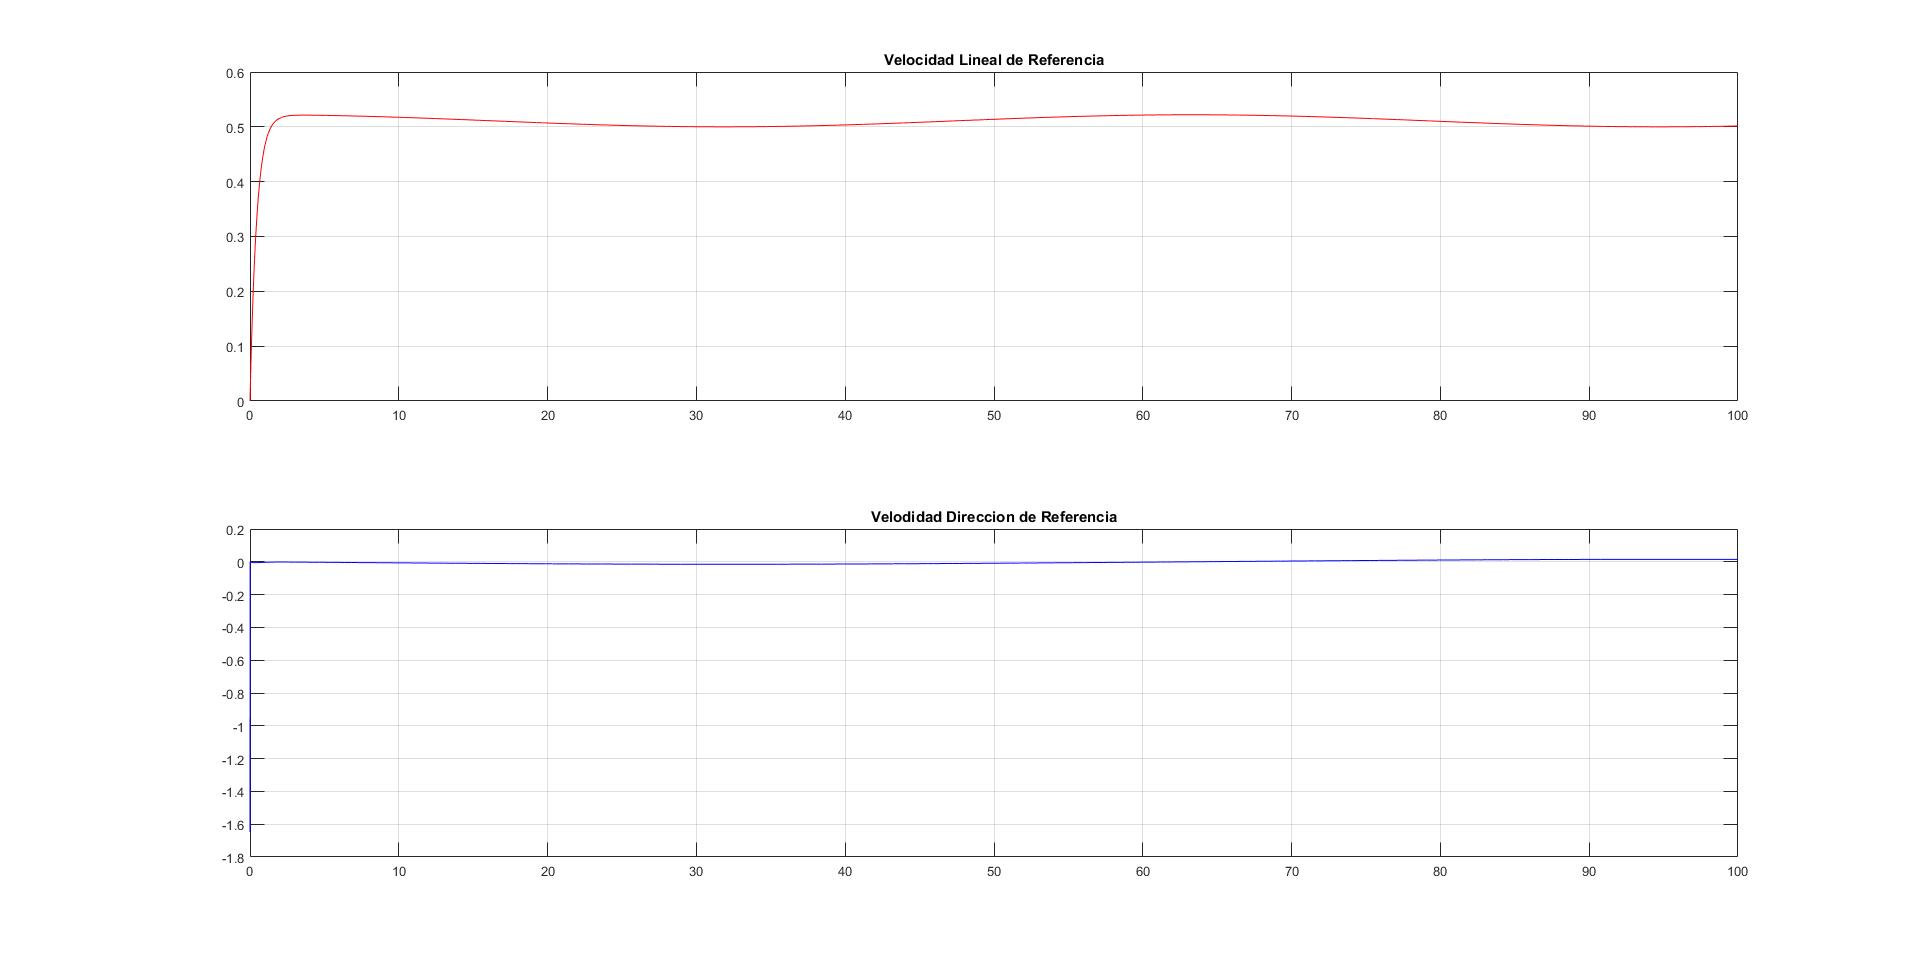
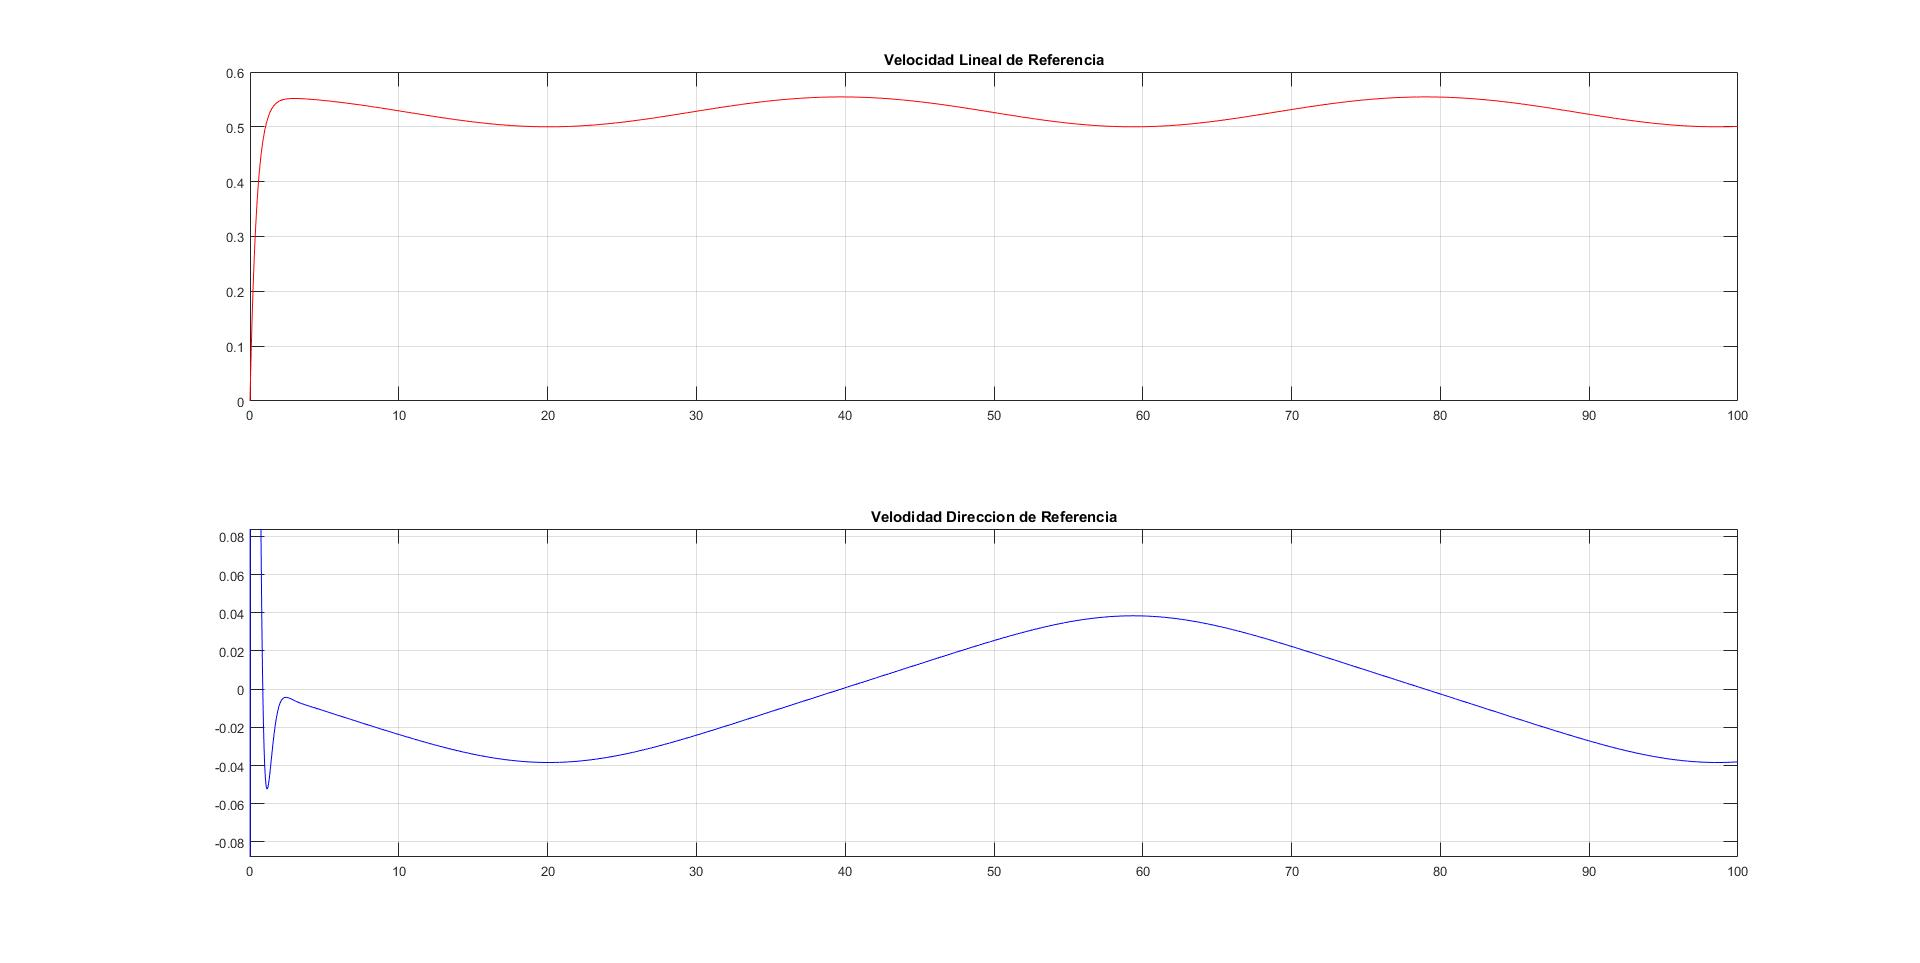
Se añade la redaccion del Pure pursuit

diff --git a/Latex/0main.tex b/Latex/0main.tex
@@ -533,13 +533,8 @@ Será necesario definir el valor de la ganancia de la función de transferencia 
 	\begin{equation}
 	\omega=-K_dd+K_h(\varphi^*-\varphi)
 	\end{equation}
-<<<<<<< HEAD
-	donde $K_d$ es la constante de proporción para el control de la distancia a la que se encuentra el robot de la línea a seguir, $K_h$ la constante de proporción para el control de la orientación respecto a la línea, $\varphi^*$ y $\varphi$ los ángulos de orientación de referencia, calculada como $\varphi^*=atan(\dfrac{-a}{b})$, y actual, y $d$ la distancia del robot a la línea definida como $d=\dfrac{(a,b,c)\cdot(x,y,1)}{\sqrt{a^2+b^2}}$.\\
-	Como se puede apreciar en este tipo de control no se controla la velocidad de desplazamiento pues no es necesario, por lo que se le asigna un valor constante.\\
-=======
 	donde $K_d$ es la constante de proporción para el control de la distancia a la que se encuentra el robot de la línea a seguir, $K_h$ la constante de proporción para el control de la orientación respecto a la línea, $\varphi^*$ y $\varphi$ los ángulos de orientación de referencia, calculada como $\varphi^*=atan(\frac{-a}{b})$, y actual, y $d$ la distancia del robot a la línea definida como $d=\frac{(a,b,c)\cdot(x,y,1)}{\sqrt{a^2+b^2}}$.\\
 	Como se puede apreciar en este tipo de control no se controla la velocidad de desplazamiento pues no es necesario, por lo que se le asigna un valor constante de 0.5 rad/s.\\
->>>>>>> 634c96a79a7cc97acab55c12809de09fbbf42d84
 	
 	Una vez descrito el funcionamiento del control, implementado en una función de MATLAB donde se han puesto la restricciones de que las líneas siempre avanzarán en X positivo y que no podrán ser verticales para facilitarla implementación del mismo.\\
 	Una vez tenidas en cuenta dichas restricciones, se puede pasar a realizar experimentos que determinen la fiabilidad del control:
@@ -573,7 +568,140 @@ Será necesario definir el valor de la ganancia de la función de transferencia 
 	\end{itemize}
 	\subsubsection{Control a una trayectoria}
 	\subsubsection{Control a una postura}
+
+\newpage
+
 \subsection{Ley de control \textit{Persecución pura}}
+Por ultimo, se implementara una ley de control comun en robotica movil, la cual se define como persecucion pura o \textit{Pure Pursuit}. Con esta tecnica se busca un seguimiento de un camino explicito, el cual se encuentra determinado por un generador de trayectorias.\\
+Esta ley de control se ha optado por implementarla, en lugar de buscando la minima distancia entre la recta de la trayectoria y la posicion del robot, realizando un control de postura mezclado con un seguimiento de trayectoria. \\
+Este control de la postura del robot tendra acentuada la ganancia que minimiza el angulo que forma la recta que une la posicion actual del robot con el punto que se obtiene del generador de trayectorias.\\
+En la figura que se muestra a continuacion, la cual contiene la misma notacion que el control a una postura, dicho angulo sera $\alpha$:
+
+\begin{figure}[h!]
+   \centering
+   \includegraphics[width=0.4\textwidth]{postura}
+   \caption{Representacion del angulo y la distancia calculados}
+\end{figure}
+
+Por tanto, matematicamente se calculara como:
+\begin{center}
+$\rho=\sqrt{(y^*-y)^2+(x^*-x)^2}$ \\
+$\alpha=atan\Big(\dfrac{y^*-y}{x^*-x}\Big)-\varphi$ \\
+$\beta=-\varphi-\alpha$
+\end{center}
+
+Las leyes de control que se implementaran a los motores del robot son:
+\begin{center}
+$v=\frac{K_{\rho}\rho}{R}$ \\
+$\omega=K_{\alpha}\alpha + K_{\beta}\beta$
+\end{center}
+
+Para definir los parametros de los controladores, sera necesario asegurarse de un criterio de signos que asegure la estabilidad del sistema en bucle cerrado. Se debe cumplir que: $K_{\rho}>0$,$K_{\beta}<0$ y que $\Big(K_{\alpha}-K_{\rho}\Big)>0$.\\
+Por lo tanto, los parametros que se implementaran en los controladores son:
+\begin{center}
+$K_{\rho}=2.2$\\
+$K_{\beta}=-0.1$\\
+$K_{\alpha}=K_{\beta}+5.8$
+\end{center}
+Como se puede observar, se ha acentuado el valor de la ganancia asociada al angulo $\alpha$. \\
+
+Para verificar el correcto funcionamiento de este controlador, se hara que siga la siguiente senoide:
+\begin{center}
+$x=At=0.2t$\\
+$y=Bsin(\omega t)=1.2*sin(0.2t)$
+\end{center}
+
+A continuacion, se mostraran las graficas que muestran los resultados de dicho experimento
+
+
+Con los valores asignados a los controladores y trayectoria propuesta se presentan los siguientes
+	resultados de simulación.\\ 
+
+
+
+\newpage	
+	\begin{itemize}
+		
+		\item Resultados Persecución de Trayectoria::
+	\begin{center}
+		$A=0.2$    \hspace{0.2cm}   
+		$B=1.2$    \hspace{0.2cm} 
+		$w=0.2$ \\
+	\end{center}
+
+	En primer lugar, se muestra la superposicion de la referencia dinamica y de la posicion del 
+	robot; además de los errores asociados a cada porsicion cartesiana.\\
+
+
+	\begin{figure}[h!]
+		\centering
+		\includegraphics[width=1\textwidth]{PurePursuitSeguimiento_Error}
+		\caption{Referencia Vs Seguimiento}
+	\end{figure}
+
+	Como se observa, en el inicio de las trayectoria, se presenta una variacion en mayor frecuencia
+	en la postura del robot; al estabilizar la velocidad del seguimiento de la trayectoria,
+	el robot continua la tecnica de seguimiento de persecucion pura de la trayectoria de forma estable.\\
+
+	Sobre el error, vemos que tenemos un error mantenido  en la posicion \textit{X}, lo que 
+	nos indica un retraso inebitable, pero lo suficientemente pequeño; y por el el lado del error 
+	en \textit{Y}, se observa un error oscilante, que indica que no se estan alcanzando los valores de la referencia
+	con total exactitud.
+	\begin{figure}[h!]
+		\centering
+		\includegraphics[width=0.8\textwidth]{PurePursuitValoresEntrada}
+		\caption{Señales de Control}
+	\end{figure}
+
+	Esta siguiente grafica, muestra las señales de control generadas para la trayectoria exigida
+	a lo largo del tiempo de simulación, en esta se puede comprobrar el trabajo del control en la 
+	dirección de referencia, cuya llegada al regimen permantente coincide  con el cese del cambio 
+	brusco en la orientación del robot; y la referencia lineal en este momento obtiene una señal periodica, 
+	tal y como se podria suponer de una trayectoria de este estilo.\\
+
+	\end{itemize}
+
+
+
+\begin{itemize}
+	\item Resultados Persecución de Trayectoria:
+	\begin{center}
+		$A=0.2$    \hspace{0.2cm}   
+		$B=1.2$    \hspace{0.2cm} 
+		$w=0.08$ \\
+	\end{center}
+
+	La disminucion de la amplitud mejora en gran medida al seguimiento de la trayectoria, para nuestro
+	modelo de robot movil.\\
+	\begin{figure}[h!]
+		\centering
+		\includegraphics[width=0.9\textwidth]{PurePursuitSeguimientoFlama_Error}
+		\caption{Referencia Vs Seguimiento}
+	\end{figure}
+
+	Como se puede observar, comprobamos una linealidad en el cambio de de la orientacion y un seguimiento
+	limpio de la la trayectoria, aun asi, y como se comentó anteriormete, existe un retraso asociado a la 
+	velocidad del robot asociada costante en ambos experimentos.
+
+	\begin{figure}[h!]
+		\centering
+		\includegraphics[width=0.5\textwidth]{PurePursuitValoresEntradaFlama}
+		\caption{Señales de Control}
+	\end{figure}
+
+	Como se pudiese esperar, la variacion de la entrada Señal de \textit{Velocidad Lineal} ocupada del control
+	del la velocidad de recorer un seno matematico se equipare con la cosenoidal de esta; a pesar de ello,
+	la variacion de esta es pequieza, lo que puede asumirse a nivel dinamico.\\
+	En un orden de magnitud menor, se encuentra la variacion de la señal de control de la \textit{Velocidad de Dirección}
+	, de forma constante tras un inicio sobreoscilado debido a una posicion de origen no alineada con la trayectoria.\\
+
+
+
+	\end{itemize}
+
+
+
+
 
 %\section{Anexos y conclusiones}
 %\subsection{Codigos de programacion}

diff --git a/ControlDinamico/Pure_Pursuit/prueba_persecucionPURA.m b/ControlDinamico/Pure_Pursuit/prueba_persecucionPURA.m
@@ -12,13 +12,13 @@ omega_sat=[-0.2618 0.2618];%15 grados/segundo
 tetha_d_sat=[-0.75 0.75];%Velocidad lineal de 30 cm/seg
 
 % Parametros del seno a seguir
-% A=0.2;        % x=A*t
-% B=1.2;        % y=B*sin(wt)
-% w=0.05;
-
 A=0.2;        % x=A*t
 B=1.2;        % y=B*sin(wt)
-w=0.2;
+w=0.08;
+
+% A=0.2;        % x=A*t
+% B=1.2;        % y=B*sin(wt)
+% w=0.2;
 
 % Se lanza la simulacion
 sim('sl_robot_sincrono_persecucion_pura');
